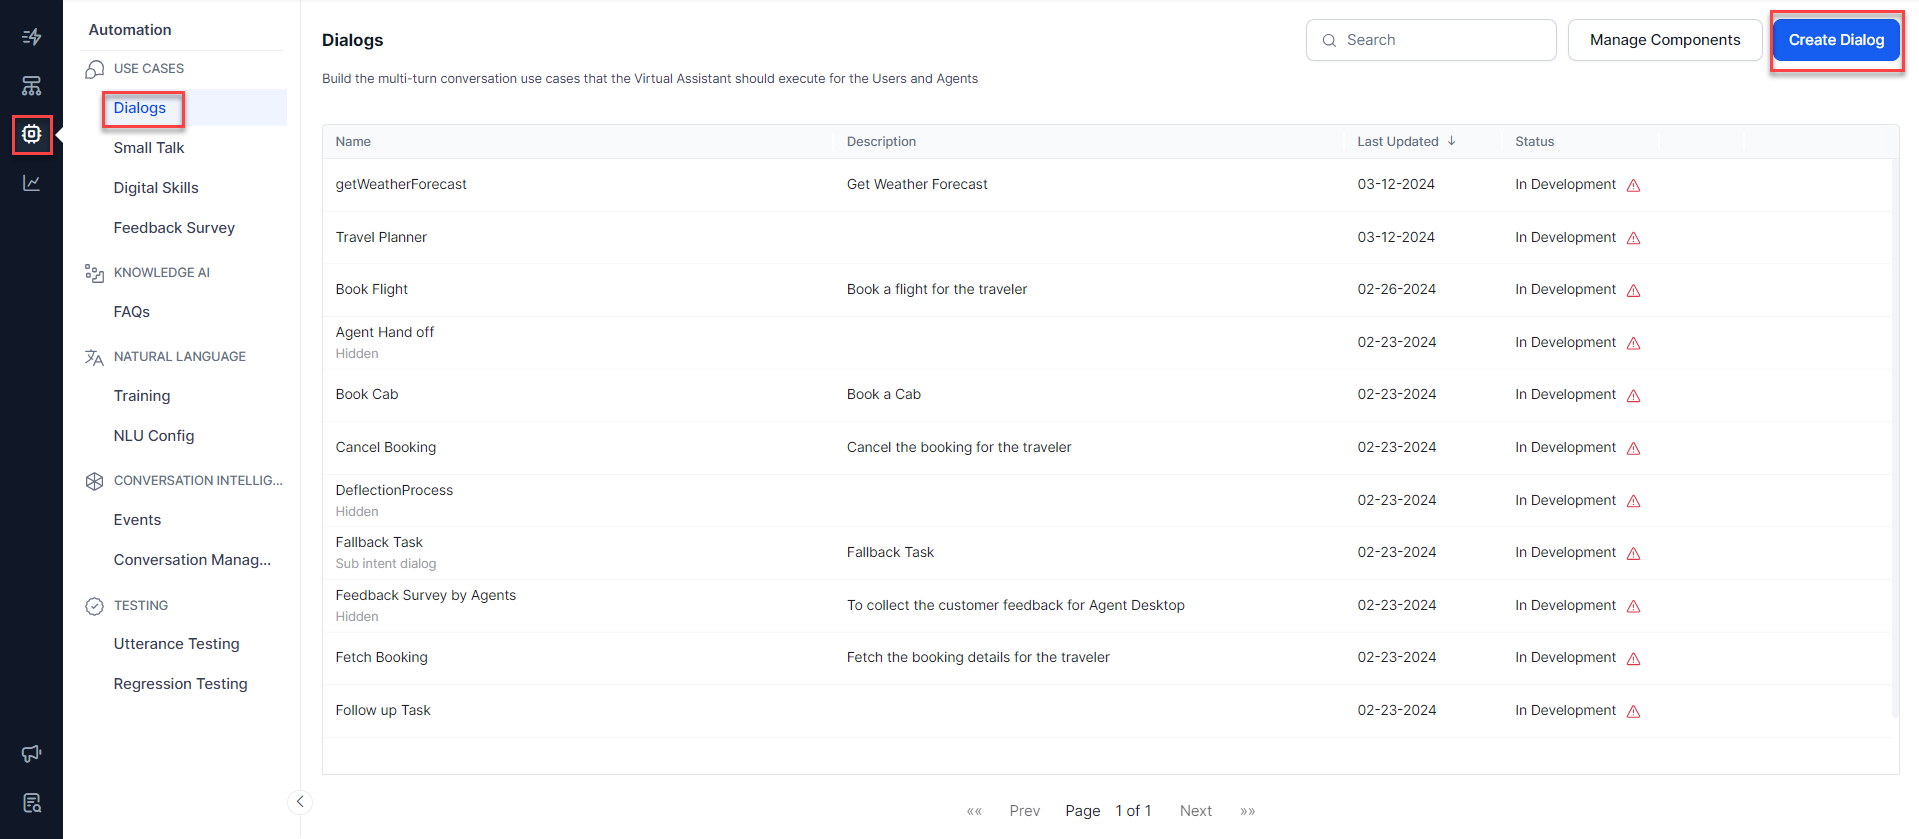
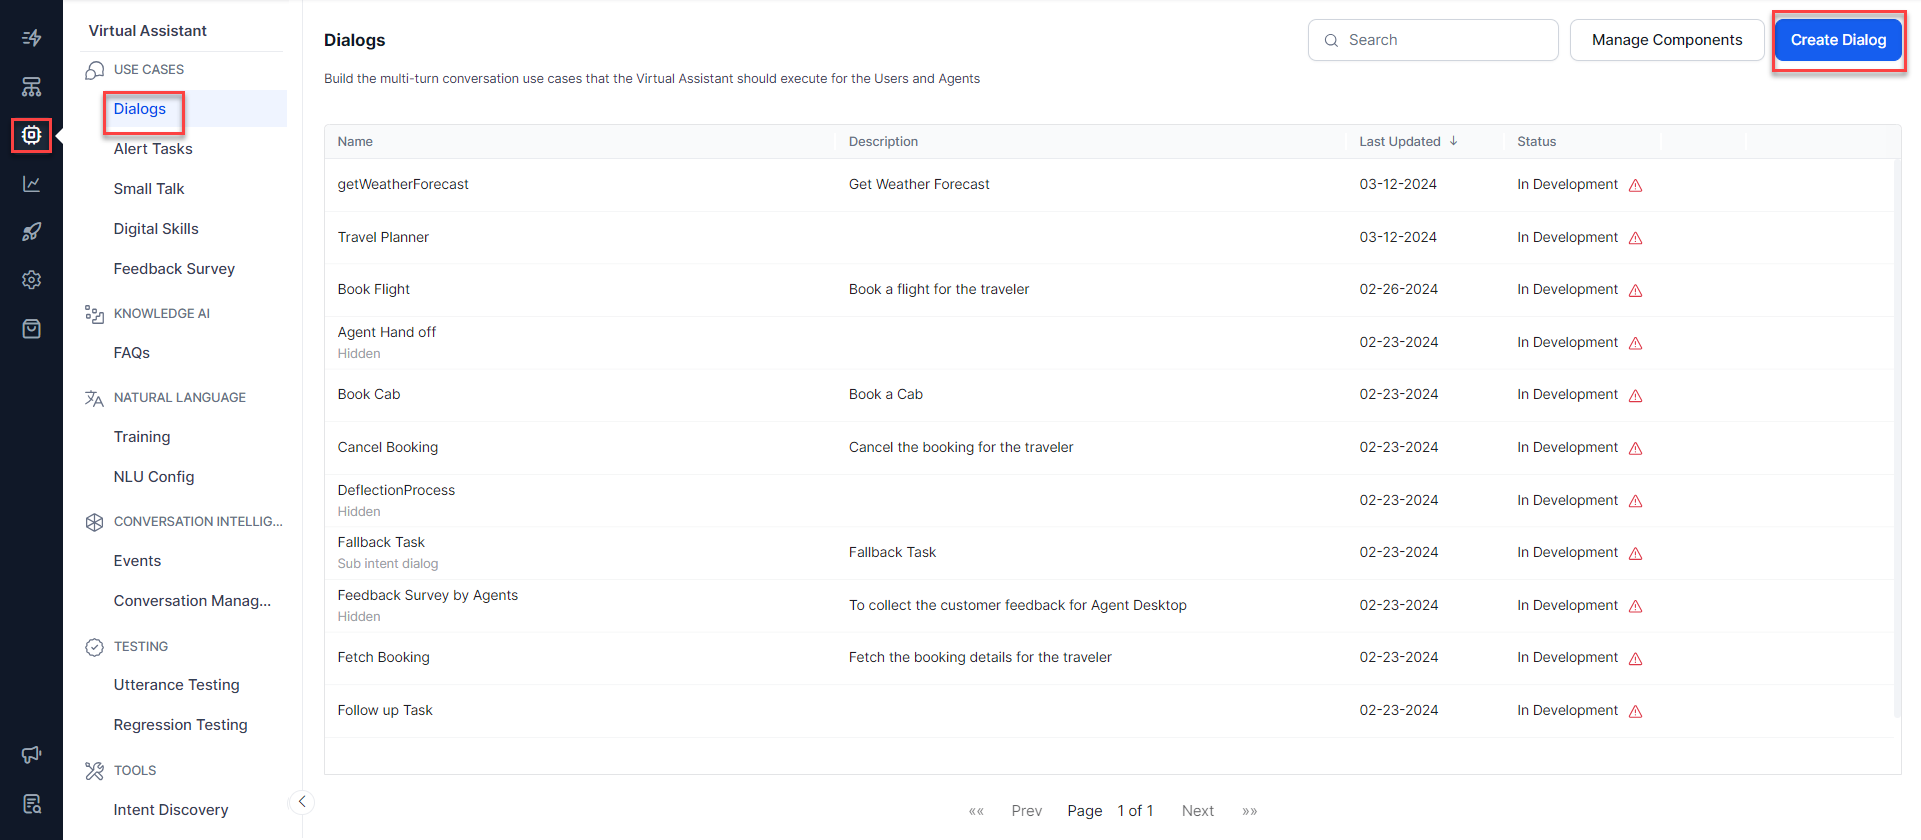
using dialog task builder

diff --git a/docs/xo/automation/use-cases/dialogs/using-the-dialog-builder-tool.md b/docs/xo/automation/use-cases/dialogs/using-the-dialog-builder-tool.md
@@ -9,9 +9,9 @@ To create a dialog task, you must have already created an assistant to add a dia
 
 To add a dialog task, follow the steps below:
 
-1. Open the assistant for which you want to create the dialog task.
-2. Click the **Automation** icon on the left menu.
-3. The Automation menu opens, and the **Dialogs** page is open by default.
+1. Open the app for which you want to create the dialog task.
+2. Navigate to **Automation AI > Virtual Assistant** icon on the left menu.
+3. The Virtual Assistant menu opens, and the **Dialogs** page is open by default.
 4. On the Dialogs page, click the **Create Dialog** button.
 
     <img src="../images/using-dialog-builder-img1-create-dialog.png" alt="Dialogs" title="Dialogs" style="border:1px solid gray;zoom:60%;">
